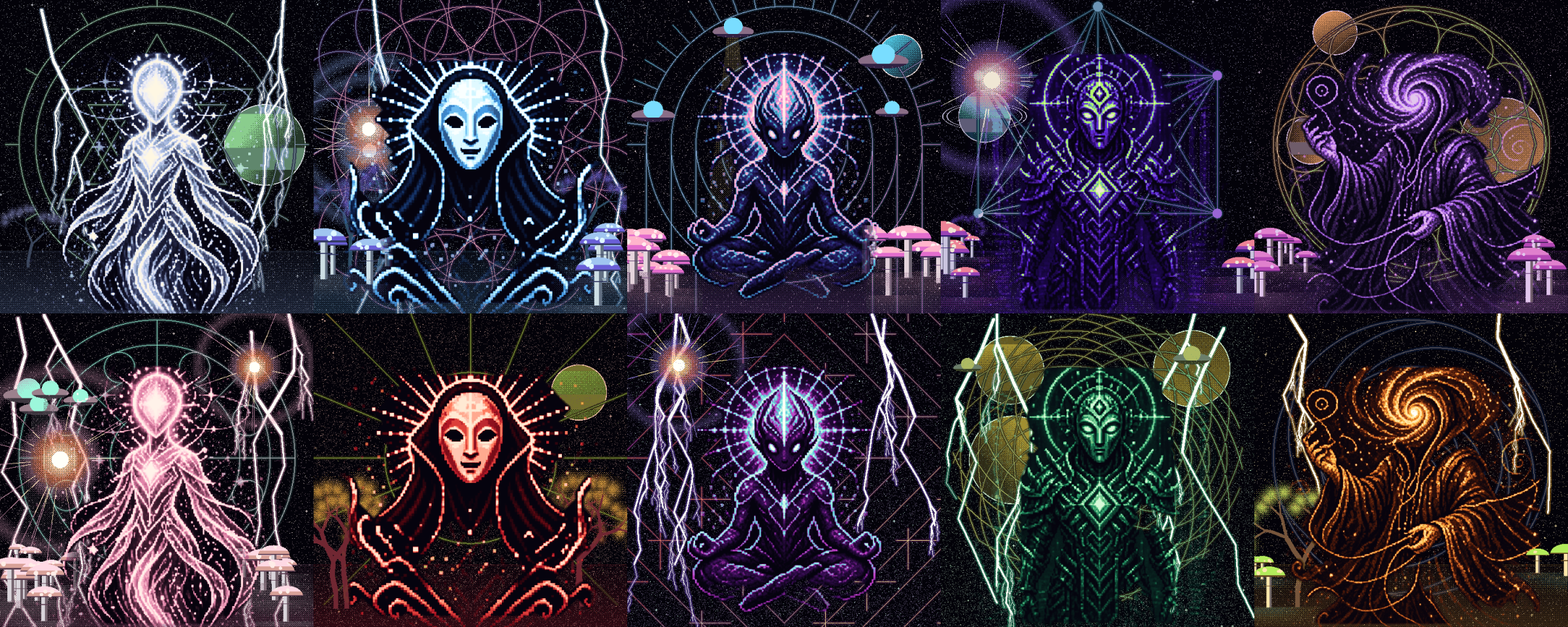
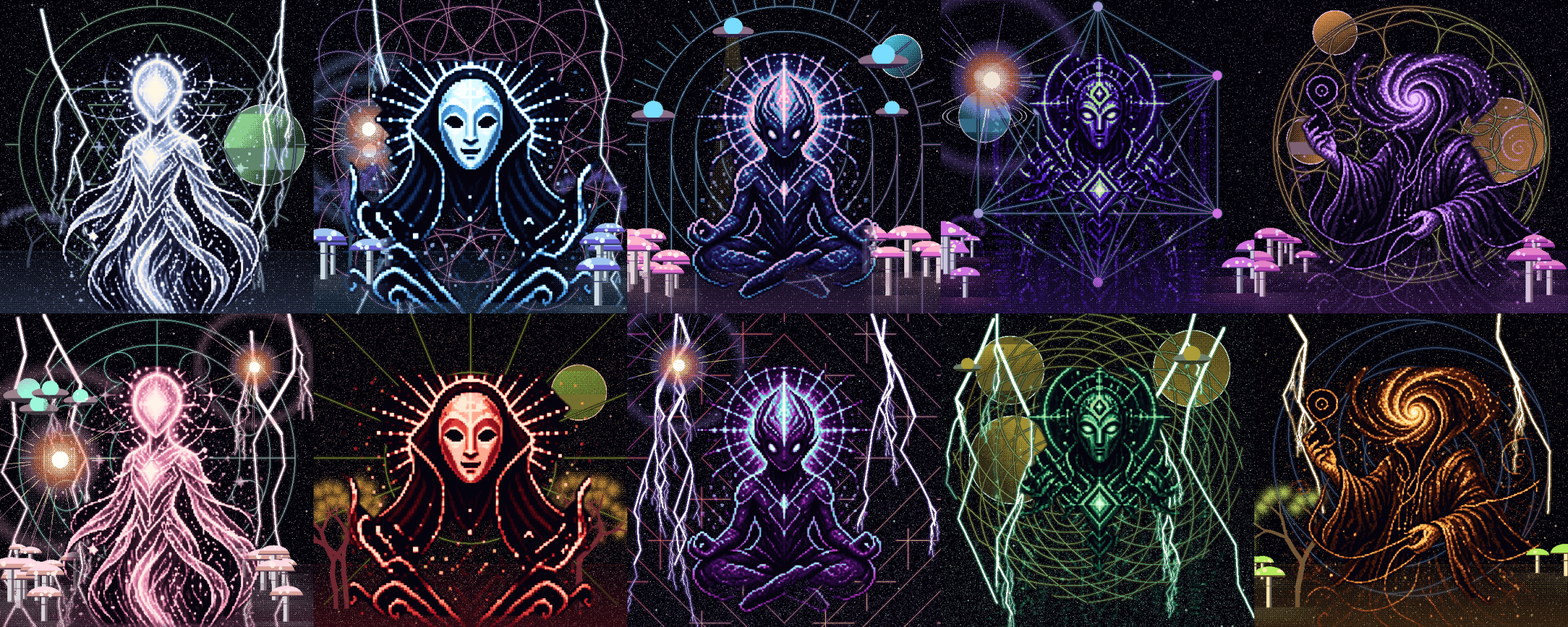
The twenty Entities: five figures, four each
tools/gods.py renders Entities as well as Gods (python3 tools/gods.py
entity). Six Entity colourways, none a God's; within a figure no two
share a colourway or a geometry, no two of all twenty share both, and
each has two or three scene traits, never the loudest value. Pictures on
dark grey are levelled to black from their own border, which also clears
the Temple Warden's pillar edges.

Claude-Session: https://claude.ai/code/session_01DGmyhhgdpe7iuFuzKzHk3m

diff --git a/tools/gods.py b/tools/gods.py
@@ -1,8 +1,9 @@
 #!/usr/bin/env python3
 """
-REALM — the ten Gods.
+REALM — the ten Gods and the twenty Entities.
 
-    python3 tools/gods.py [out-dir]       renders all ten and a contact sheet
+    python3 tools/gods.py god [out-dir]       the ten Gods and a contact sheet
+    python3 tools/gods.py entity [out-dir]    the twenty Entities likewise
 
 The Gods are not line art. Each of the five figures arrives as a finished
 greyscale picture with its own halo and its own stars, so they are not put
@@ -42,13 +43,22 @@ GRID = 600
 SCALE = 0.84
 
 # name: (master, how dark the sky is, how hard to close the silhouette, where it may be)
-FIGURES = {
+GOD_FIGURES = {
     "Star Herald":   ("god-star-herald.jpg",   0.10, 8,  None),
     "Mask Wraith":   ("god-mask-wraith.jpg",   0.045, 26, None),
     "Still One":     ("god-still-one.jpg",     0.05, 8,  None),
     "Temple Warden": ("god-temple-warden.jpg", 0.07, 10, 175),    # inside the pillars
     "Galaxy Weaver": ("god-galaxy-weaver.jpg", 0.06, 8,  None),
 }
+
+ENTITY_FIGURES = {
+    "Grinning Fractal": ("entity-grinning-fractal.jpg", 0.06, 10, None),
+    "Smoke Sprite":     ("entity-smoke-sprite.jpg",     0.07, 10, None),
+    "Mushroom Elder":   ("entity-mushroom-elder.jpg",   0.06, 8,  None),
+    "Crowned Serpent":  ("entity-crowned-serpent.jpg",  0.06, 8,  None),
+    "Deep One":         ("entity-deep-one.jpg",         0.10, 8,  None),
+}
+FIGURES = {**GOD_FIGURES, **ENTITY_FIGURES}
 
 D = (5, 3, 14)
 # shadow to light, five stops each; one colourway per God
@@ -64,6 +74,20 @@ RAMPS = {
     "Ultraviolet": [D, (40, 10, 110), (110, 50, 255), (170, 255, 80), (246, 255, 220)],
     "Rose Quartz": [D, (70, 30, 50), (220, 120, 160), (255, 196, 210), (255, 246, 236)],
 }
+GOD_COLOURWAYS = list(RAMPS)
+
+# The Entities' six: three of their own and the three rarest of the general
+# set. None is a God's, so every God's colour stays a one-of-one.
+RAMPS.update({
+    "Ichor":    [D, (20, 60, 20), (90, 200, 50), (190, 255, 110), (245, 255, 220)],
+    "Sapphire": [D, (14, 26, 90), (40, 80, 220), (120, 170, 255), (255, 226, 140)],
+    "Molten":   [D, (70, 20, 8), (200, 70, 14), (255, 150, 40), (255, 236, 170)],
+    "Auric":    [D, (70, 46, 8), (180, 130, 30), (250, 210, 100), (255, 250, 220)],
+    "Bloom":    [D, (70, 8, 56), (210, 50, 160), (255, 140, 220), (200, 255, 240)],
+    "Eclipse":  [D, (40, 40, 52), (110, 110, 130), (220, 220, 236), (255, 70, 56)],
+})
+ENTITY_COLOURWAYS = ["Ichor", "Sapphire", "Molten", "Auric", "Bloom", "Eclipse"]
+PALETTE = {"Auric": "Aurum"}          # sky palette, where its name differs
 
 GEOMETRY = ["Metatron", "Flower", "Yantra", "Mandala", "Rosette",
             "Gatefold", "Spiral", "Weird", "Lattice", "Rays"]
@@ -91,6 +115,11 @@ def figure(name):
     side = min(w, h)
     im = im.crop(((w - side) // 2, h - side, (w - side) // 2 + side, h))
     g = np.asarray(im.resize((GRID, GRID), Image.BOX)).astype(float) / 255
+    # Some pictures arrive on dark grey rather than black. The border's own
+    # level is taken as black, so the sky reads as sky and not as a slab.
+    border = np.concatenate([g[:8].ravel(), g[:, :8].ravel(), g[:, -8:].ravel()])
+    bg = float(np.median(border))
+    g = np.clip((g - bg) / max(1e-6, 1 - bg), 0, 1)
 
     s = ndimage.gaussian_filter(ndimage.median_filter(g, 7), 3)
     dark = s < dark_at
@@ -135,7 +164,7 @@ def _ramp(stops, v):
 def render_god(t, seed):
     g, soft = figure(t["Being"])
     cw = t["Colourway"]
-    pal = _flora_palette(_aura_palette(dict(BY_NAME[cw]), t["Aura"]), "Golden")
+    pal = _flora_palette(_aura_palette(dict(BY_NAME[PALETTE.get(cw, cw)]), t["Aura"]), "Golden")
     w = h = GRID
 
     bg = np.zeros((h, w, 4), np.uint8); bg[..., 3] = 255
@@ -167,8 +196,8 @@ def deal(seed=1010):
     """Ten Gods: unique colourway and geometry each, and the two of a figure
     as unlike each other as the lists allow."""
     rng = np.random.default_rng(seed)
-    beings = [b for b in FIGURES for _ in range(2)]
-    cws = list(RAMPS); rng.shuffle(cws)
+    beings = [b for b in GOD_FIGURES for _ in range(2)]
+    cws = list(GOD_COLOURWAYS); rng.shuffle(cws)
     geos = list(GEOMETRY); rng.shuffle(geos)
     gods = []
     for i, b in enumerate(beings):
@@ -189,22 +218,54 @@ def deal(seed=1010):
     return gods
 
 
+def deal_entities(seed=2020):
+    """Twenty Entities, four of each figure. Within a figure no two share a
+    colourway or a geometry; across all twenty no two share a colourway AND
+    a geometry; two or three things happen round each, never the same set
+    as another of its figure."""
+    rng = np.random.default_rng(seed)
+    out, used = [], set()
+    for b in ENTITY_FIGURES:
+        cws = list(ENTITY_COLOURWAYS); rng.shuffle(cws)
+        geos = list(GEOMETRY); rng.shuffle(geos)
+        mine = []
+        for k in range(4):
+            cw = cws[k]
+            g = next(x for x in geos if (cw, x) not in used and x not in [m["Geometry"] for m in mine])
+            used.add((cw, g))
+            t = {"Being": b, "Colourway": cw, "Geometry": g,
+                 "Aura": AURAS[int(rng.integers(len(AURAS)))]}
+            seen = [frozenset(e for e in EVENTS if m[e] != "None") for m in mine]
+            for _ in range(200):
+                on = frozenset(rng.choice(list(EVENTS), size=int(rng.integers(2, 4)), replace=False))
+                if on not in seen:
+                    break
+            for e, vals in EVENTS.items():
+                # one step quieter than a God's: never the loudest value
+                t[e] = vals[int(rng.integers(1, len(vals) - 1))] if e in on else "None"
+            mine.append(t)
+        out += mine
+    return out
+
+
 def main():
-    out = sys.argv[1] if len(sys.argv) > 1 else f"{ROOT}/out/gods"
+    tier = sys.argv[1] if len(sys.argv) > 1 else "god"
+    out = sys.argv[2] if len(sys.argv) > 2 else f"{ROOT}/out/{tier}"
     os.makedirs(out, exist_ok=True)
-    gods = deal()
+    rows = deal() if tier == "god" else deal_entities()
+    per = 2 if tier == "god" else 4
     pics = []
-    for i, t in enumerate(gods, 1):
-        p = render_god(t, seed=7000 + i)
-        p.save(f"{out}/god-{i}.png", optimize=True)
+    for i, t in enumerate(rows, 1):
+        p = render_god(t, seed=(7000 if tier == "god" else 8000) + i)
+        p.save(f"{out}/{tier}-{i}.png", optimize=True)
         pics.append(p)
         print(i, t)
-    json.dump(gods, open(f"{out}/gods.json", "w"), indent=2)
-    size = 480
-    sheet = Image.new("RGB", (5 * size, 2 * size))
+    json.dump(rows, open(f"{out}/{tier}s.json", "w"), indent=2)
+    size = 480 if tier == "god" else 360
+    sheet = Image.new("RGB", (5 * size, per * size))
     for i, p in enumerate(pics):
-        # each column one figure, its two Gods above each other
-        sheet.paste(p.resize((size, size), Image.BOX), ((i // 2) * size, (i % 2) * size))
+        # each column one figure, its beings above each other
+        sheet.paste(p.resize((size, size), Image.BOX), ((i // per) * size, (i % per) * size))
     sheet.save(f"{out}/sheet.png")
 
 
